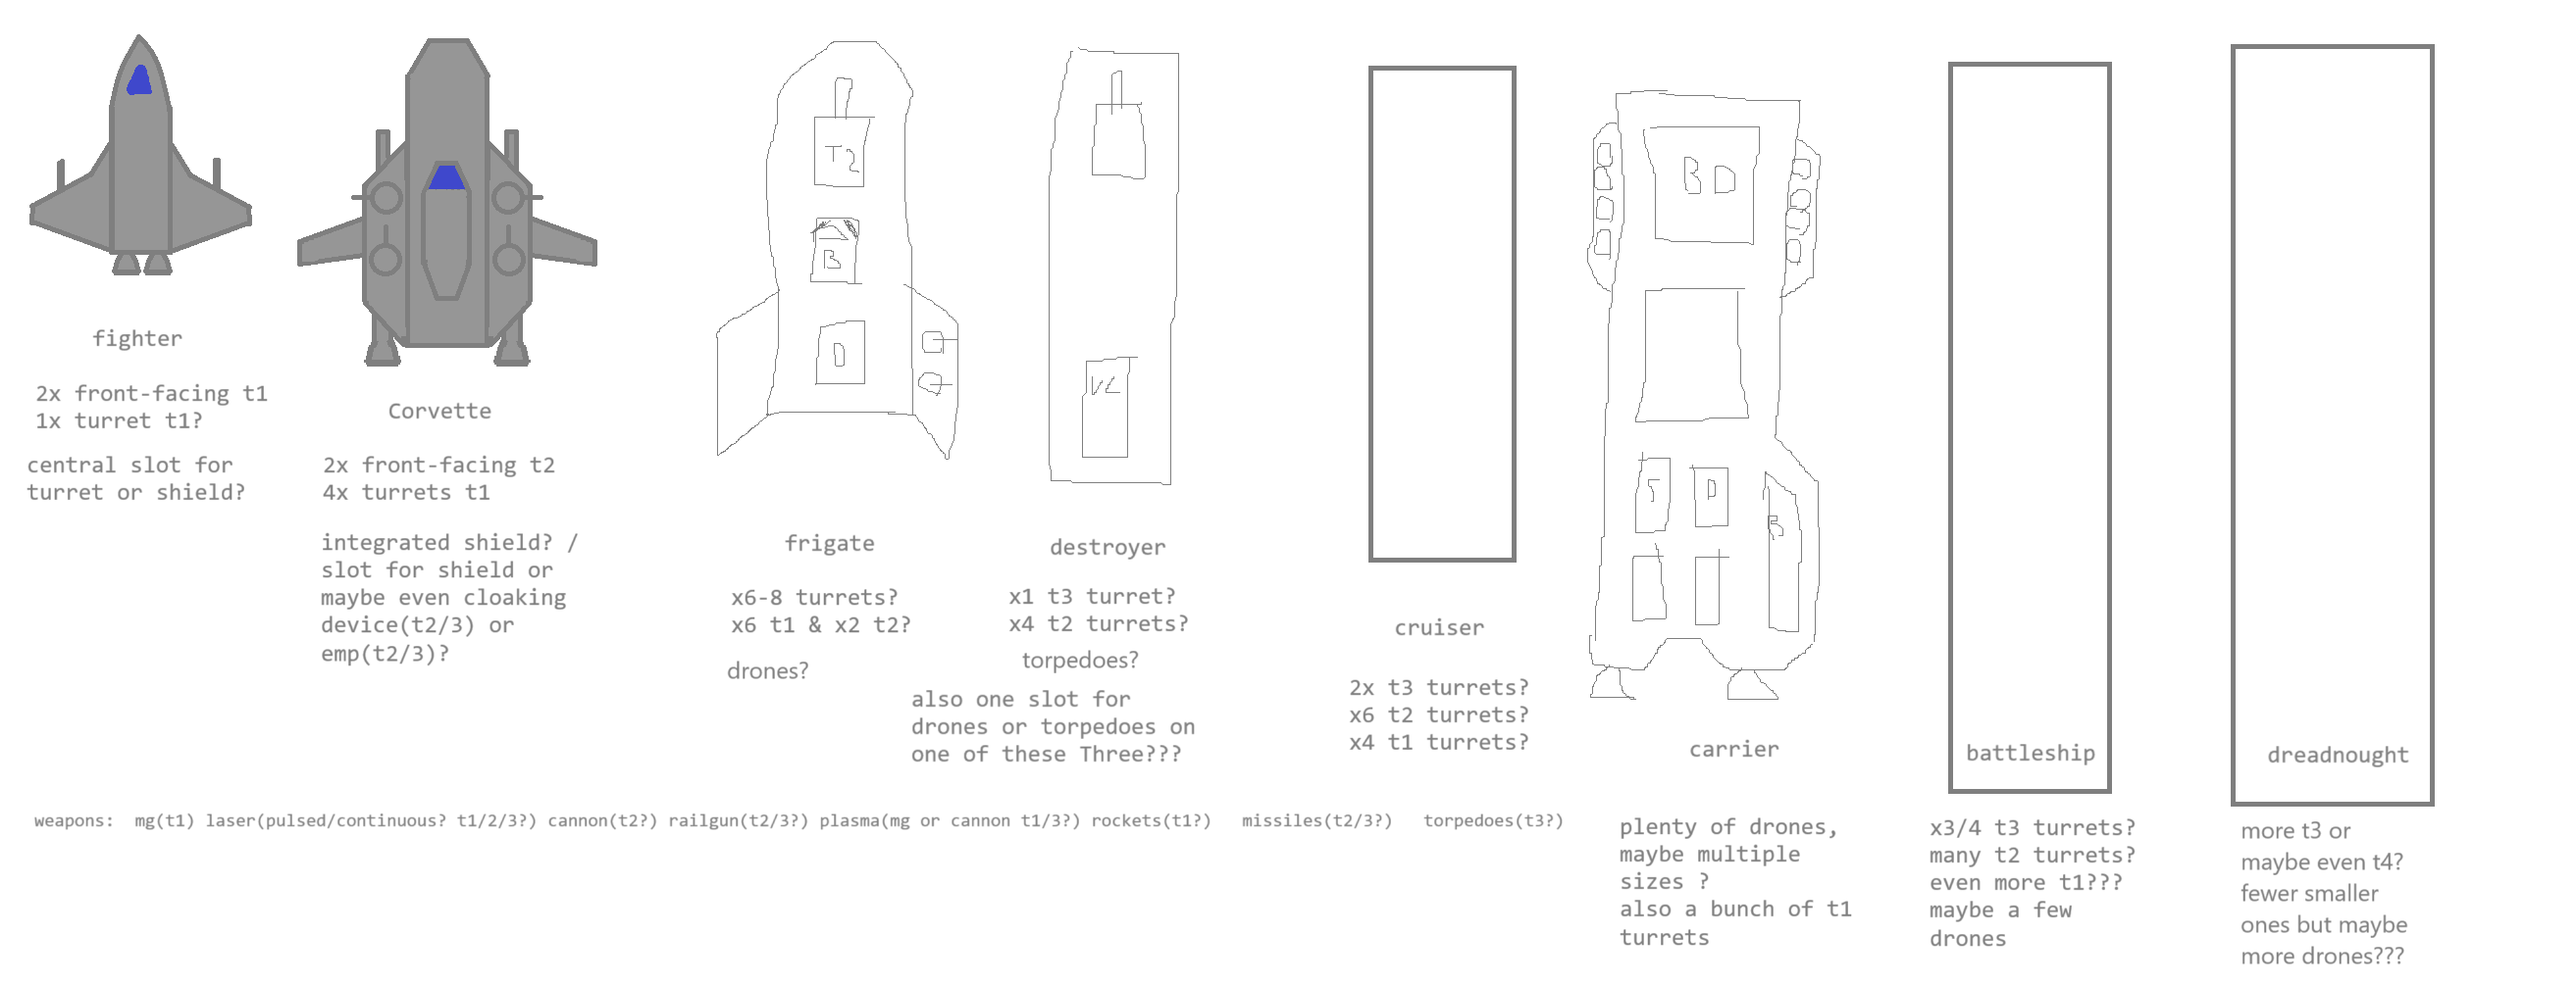
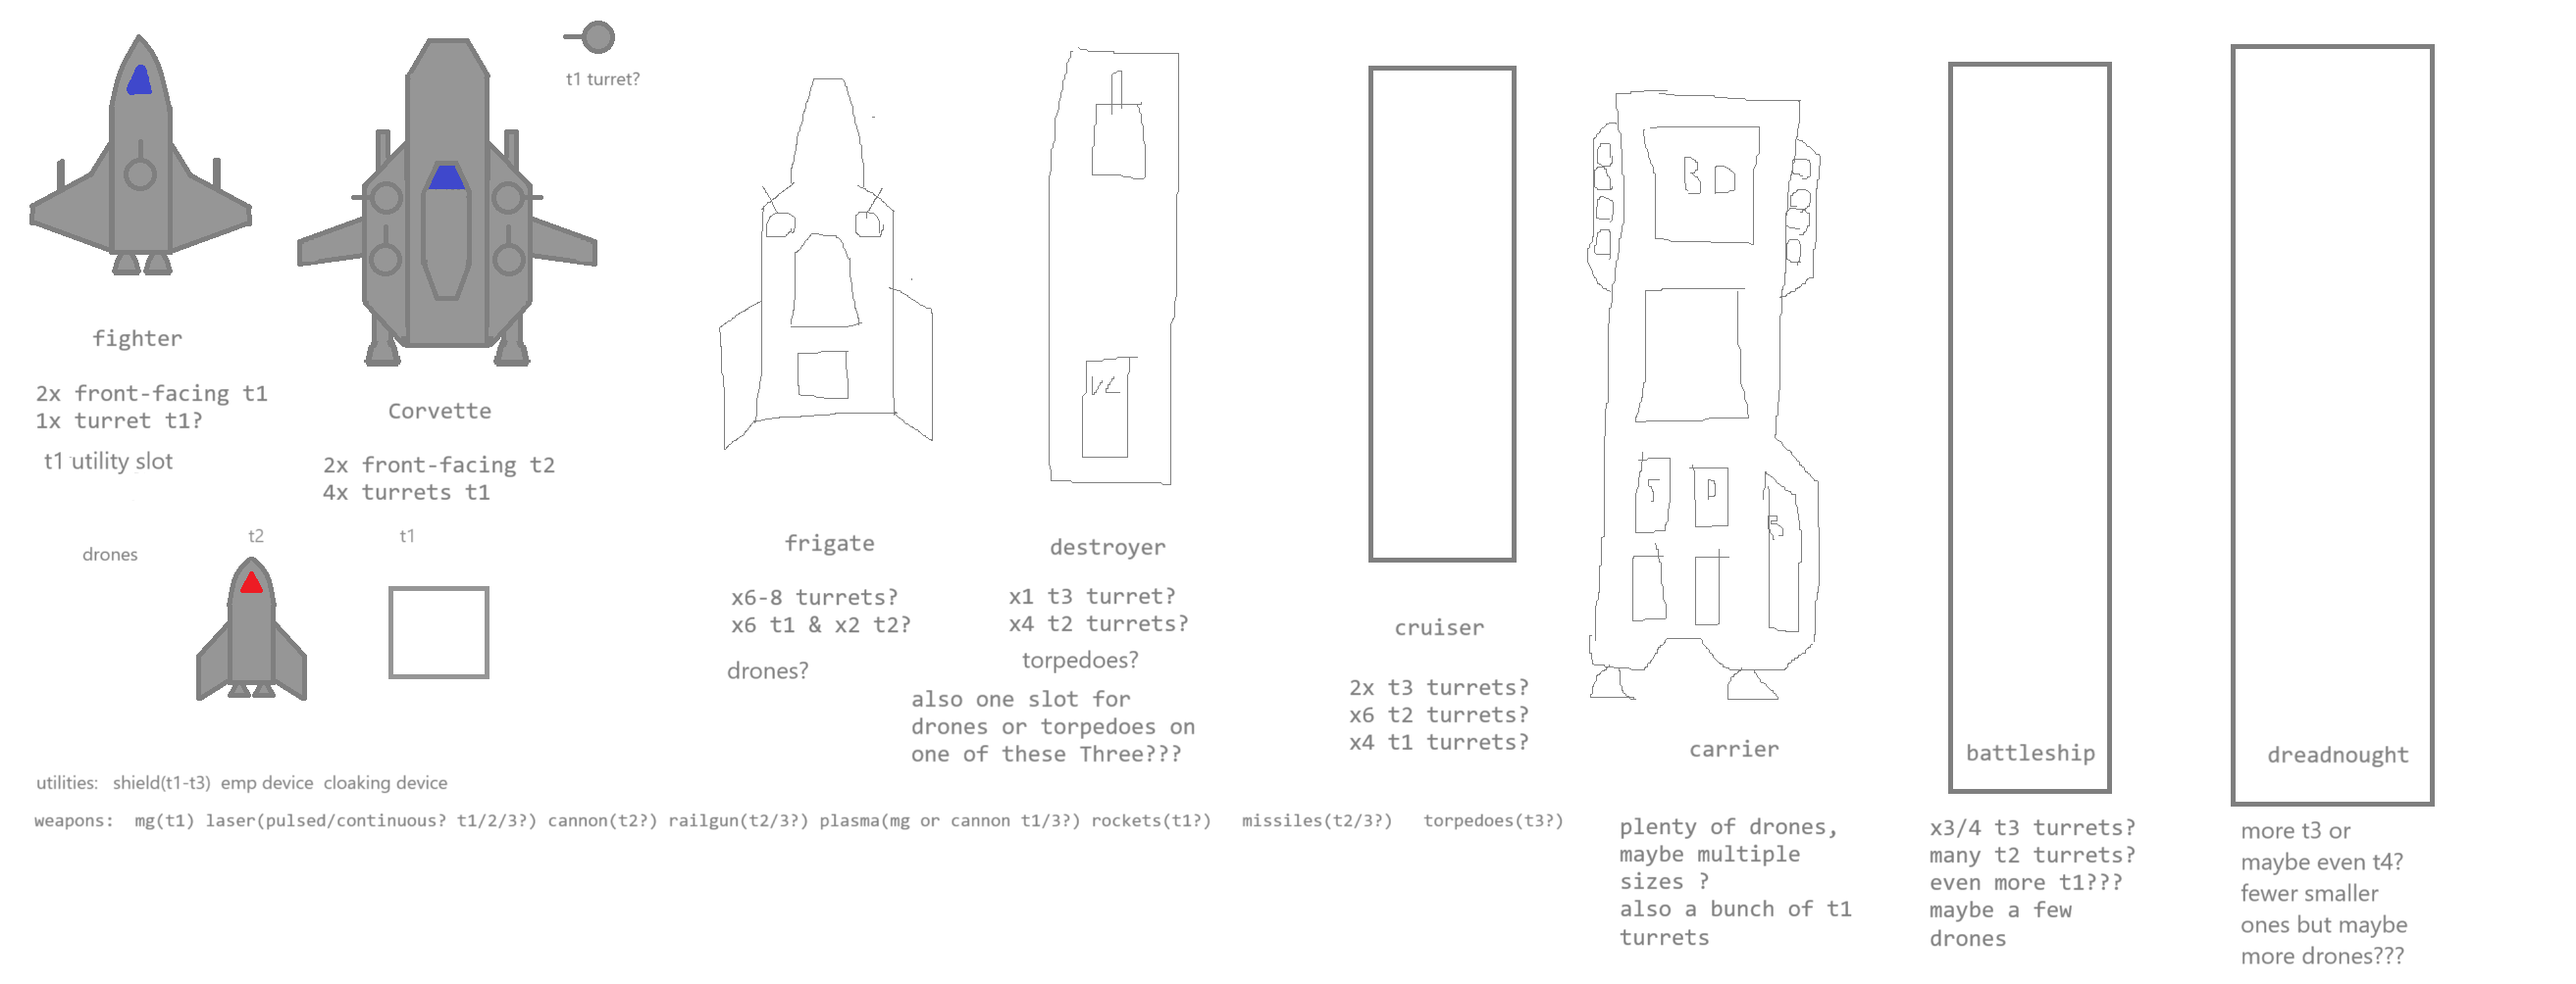
added camera deadzone, started inventory, started asteroid generation, added saving and loading funcs, improved world border colission

diff --git a/fourth gem/fourth.js b/fourth gem/fourth.js
@@ -4,7 +4,7 @@ var totW = can.width
 var totH = can.height
 var worldWidth = can.width * 100
 var worldHeight = can.height * 100
-var camera = {x:0,y:0,width:totW,height:totH}
+var camera = {x:0,y:0,width:totW,height:totH,deadzoneWidth:350,deadzoneHeight:225}
 var background = 'rgb(59, 168, 240)'
 var foreground = 'rgb(13, 84, 238)'
 var shipStroke = 'rgb(100,100,100)'
@@ -21,17 +21,19 @@ var states = {menu:0,main:1,paused:2,inventory:3}
 var gameState = states.menu
 var interval
 var canPause = true
-//skillpoint boosts on level-up???
+//inventory
+var canOpenInv = true
 var skillPoints = 0
 var dmgLvl = 0,frtLvl = 0 //???
 var accLvl = 0,crtLvl = 0 //???
 var hltLvl = 0 //???
 //arrays
 var enemies = []
+var asteroidFields = []
 var asteroids = []
 var turrets = []
 var projectiles = []
-var pickups = []//???
+var pickups = []
 var xpReqs = [25,50,75,100,125,150,175,200,225,250,275,300,325,350,375,400,425,450,475,500]
 var spAmounts = [2,4,6,8,10,12,14,16,18,20,22,24,26,28,30,32,34,36,38,40,42,44,46,48,50]
 //character functionality
@@ -208,6 +210,7 @@ can.addEventListener('mousemove', function(event) {
 document.addEventListener('keydown', function(event) {
     keysPressed = (keysPressed || []);
     keysPressed[event.key] = true; //console.log(keysPressed)
+    if (event.key == 'Tab') {event.preventDefault()}
     if (event.key == 'Escape' && gameState == states.paused) {
         console.log('resumed'); gameState = states.main
         ctx.textAlign = 'left'; can.style.cursor = 'none'
@@ -243,7 +246,7 @@ function buttonHovered(x,y,width,height) {
     return hovered;
 }
 
-window.onload = function load() {
+window.onload = function() {
     ctx.fillStyle = background
     ctx.fillRect(0,0,totW,totH)
     ctx.fillStyle = foreground
@@ -261,6 +264,64 @@ window.onload = function load() {
     setTimeout(function() {ctx.fillText('Loading........',100,totH/2)},1350)
     setTimeout(function() {ctx.fillText('Loading.........',100,totH/2)},1400)
     setTimeout(mainMenu,2000)
+}
+
+function save() {
+    ctx.fillStyle = background; ctx.fillRect(0,0,totW,totH);
+    ctx.fillStyle = foreground ; ctx.font = '50px consolas'; 
+    ctx.textAlign = 'center'; ctx.fillText('Saving...',totW/2,200);
+    setTimeout(mainMenu,1000)
+}
+
+function load() {
+    ctx.fillStyle = background; ctx.fillRect(0,0,totW,totH);
+    ctx.fillStyle = foreground ; ctx.font = '50px consolas'; 
+    ctx.fillText('Loading...',totW/2,200); gameState = states.main
+    ctx.textAlign = 'left'; interval = setInterval(mainLoop,20)
+}
+
+function generateWorld() {
+    console.log('generation stuff');
+    gameState = states.main; can.style.cursor = 'none'
+    ctx.fillStyle = background; ctx.fillRect(0,0,totW,totH);
+    ctx.fillStyle = foreground ; ctx.font = '50px consolas'; 
+    ctx.fillText('Generating world...',totW/2,200);
+    ctx.textAlign = 'left'; 
+    
+    var numberOfAsteroidfields = Math.ceil(Math.random() * 3 + 3)
+    for (var aField = 0; aField < numberOfAsteroidfields; aField++) {
+        var width = Math.random() * (2100-700) + 700;
+        var height = Math.random() * (1350-450) + 450;
+        var x = Math.random() * (worldWidth - (-camera.x + width + 50)) + -camera.x + width + 50;
+        var y = Math.random() * (worldHeight - (-camera.y + height + 50)) + -camera.y + height + 50;
+        var numberOfAsteroids = Math.floor((width - 700) / 2100 * (200 - 50) + 50);
+        asteroidFields.push({width:width,height:height,x:x,y:y})
+
+        for (var ass = 0; ass < numberOfAsteroids; ass++) {
+            var sides = Math.floor(Math.random() * 10 + 5);
+            var asteroid = [];
+            var radius = Math.random() * 15 + 10;
+            var astX = Math.random() * (x+width) + x
+            var astY = Math.random() * (y+height) + y
+            var xSpeed = Math.random() * 2 - 1;
+            var ySpeed = Math.random() * 2 - 1;
+            var rotation = Math.random() * 4 -2;
+            var health = Math.floor((radius - 10) / 15 * (8 - 3) + 3)
+
+            for (var s = 0; s < sides; s++) {
+                var angle = (Math.PI * 2 / sides) * s;
+                var pointX = astX + Math.cos(angle) * (radius + Math.random() * 10 - 5);
+                var pointY = astY + Math.sin(angle) * (radius + Math.random() * 10 - 5);
+                asteroid.push({ x: pointX, y: pointY });
+            }
+        
+            asteroid.push({xPos:astX, yPos:astY, dx:xSpeed, dy:ySpeed, rot:rotation, angle:0, radius:radius, hp:health, score:health})
+
+            asteroids.push(asteroid)
+        }
+        console.log(asteroids)
+    }
+    interval = setInterval(mainLoop,20)
 }
 
 function mainMenu() {
@@ -300,7 +361,7 @@ function checkClick() {
         }
         else if (buttonClicked(totW/2-130,270,260,50)) {
             console.log('quitting'); gameState = states.menu;
-            canPause = true; mainMenu()
+            canPause = true; can.style.cursor = 'default'; save()
         }
         
     }
@@ -412,13 +473,6 @@ class Projectile {
     }
 }
 
-function generateWorld() {
-    console.log('generation stuff');
-    gameState = states.main; can.style.cursor = 'none'
-    ctx.textAlign = 'left'; interval = setInterval(mainLoop,20)
-}
-
-
 function mainLoop() {
     ctx.fillStyle = 'rgb(66,66,66)'; ctx.fillRect(0,0,totW,totH)
     ctx.beginPath(); ctx.strokeStyle = 'rgb(76, 76, 76)';       
@@ -434,30 +488,30 @@ function mainLoop() {
     ctx.stroke(); ctx.strokeStyle = 'red';
     ctx.strokeRect(-camera.x+60,-camera.y+60,worldWidth-120,worldHeight-120)
 
-    if (keysPressed && keysPressed['s']) {maxShield = 42; shield += 0.2}
-    if (keysPressed && keysPressed['h'] && health < maxHealth) {health -= 0.5}
-    if (keysPressed && keysPressed['c']) {credits += 2}
-    if (keysPressed && keysPressed['x']) {xp += 0.2}
-
     if (keysPressed && keysPressed['f']) {spriteSelection = 1}
     else if (keysPressed && keysPressed['c']) {spriteSelection = 2}
     
+    if (keysPressed && keysPressed['Tab'] && canOpenInv == true) {
+        canOpenInv = false; setTimeout(() => {canOpenInv = true},1000)
+        if (gameState != states.inventory) {
+            gameState = states.inventory; console.log('inventory open')
+        }
+        else {
+            gameState = states.main; console.log('inventory closed')
+        }
+    }
+
     //levelling up
     if (xp >= xpRequired) { 
-        xp -= xpRequired; skillPoints += spAmounts[level];  
-        ctx.fillStyle = foreground; ctx.font = '30px consolas'; ctx.fillText('Level up! '+spAmounts[level]+' skillpoints received',250,100)
+        xp -= xpRequired; skillPoints += spAmounts[level]; ctx.fillStyle = foreground;
+        ctx.font = '30px consolas'; ctx.fillText('Level up! '+spAmounts[level]+' skillpoints received',250,100)
         level++; xpRequired = xpReqs[level];
     }
 
-    // Camera follows player
-    camera.x = Math.max(0, Math.min(playerX - camera.width / 2, worldWidth - camera.width));
-    camera.y = Math.max(0, Math.min(playerY - camera.height / 2, worldHeight - camera.height));
-    console.log(playerX-camera.x+','+playerY-camera.y)
-    
     //turning
-    if (keysPressed && (keysPressed['a'] || keysPressed['ArrowLeft'])) {
+    if (keysPressed && (keysPressed['a'] || keysPressed['ArrowLeft']) && gameState != states.inventory) {
         playerAngle -= playerTurnSpeed;
-        console.log(playerAngle)
+        //console.log(playerAngle)
         if (playerSprite == fighter) {
             var rotated1 = rotatePoint(playerX-camera.x+10,playerY-camera.y-20,playerX-camera.x,playerY-camera.y,playerAngle)
             var rotated2 = rotatePoint(playerX-camera.x+20,playerY-camera.y-20,playerX-camera.x,playerY-camera.y,playerAngle)
@@ -468,9 +522,9 @@ function mainLoop() {
             projectiles.push(new Projectile(2,2,rotated3.x,rotated3.y,rotated4.x,rotated4.y,'particleS',3,5,0,0,0,0))
         }
     }
-    else if (keysPressed && (keysPressed['d'] || keysPressed['ArrowRight'])) {
+    else if (keysPressed && (keysPressed['d'] || keysPressed['ArrowRight']) && gameState != states.inventory) {
         playerAngle += playerTurnSpeed
-        console.log(playerAngle)
+        //console.log(playerAngle)
         if (playerSprite == fighter) {
             var rotated1 = rotatePoint(playerX-camera.x-10,playerY-camera.y-20,playerX-camera.x,playerY-camera.y,playerAngle)
             var rotated2 = rotatePoint(playerX-camera.x-20,playerY-camera.y-20,playerX-camera.x,playerY-camera.y,playerAngle)
@@ -483,7 +537,7 @@ function mainLoop() {
     }
 
     //strafing
-    if (keysPressed && (keysPressed['q'])) {
+    if (keysPressed && (keysPressed['q']) && gameState != states.inventory) {
         playerSpeed = 0.025
         inputVector = [playerSpeed * Math.cos((playerAngle+180) * Math.PI / 180),playerSpeed * Math.sin((playerAngle+180) * Math.PI / 180)]
         movementVector[0] += inputVector[0]
@@ -498,7 +552,7 @@ function mainLoop() {
             projectiles.push(new Projectile(2,2,rotated3.x,rotated3.y,rotated4.x,rotated4.y,'particleS',3,5,0,0,0,0))
         }
     }
-    else if (keysPressed && (keysPressed['e'])) {
+    else if (keysPressed && (keysPressed['e']) && gameState != states.inventory) {
         playerSpeed = 0.025
         inputVector = [playerSpeed * Math.cos((playerAngle) * Math.PI / 180),playerSpeed * Math.sin((playerAngle) * Math.PI / 180)]
         movementVector[0] += inputVector[0]
@@ -515,7 +569,7 @@ function mainLoop() {
     }
 
     //go forwards / backwards
-    if (keysPressed && (keysPressed['w'] || keysPressed['ArrowUp'])) {
+    if (keysPressed && (keysPressed['w'] || keysPressed['ArrowUp']) && gameState != states.inventory) {
         playerSpeed = 0.05
         inputVector = [playerSpeed * Math.cos((playerAngle-90) * Math.PI / 180),playerSpeed * Math.sin((playerAngle-90) * Math.PI / 180)]
         movementVector[0] += inputVector[0]
@@ -530,7 +584,7 @@ function mainLoop() {
             projectiles.push(new Projectile(3,3,rotated3.x,rotated3.y,rotated4.x,rotated4.y,'particleL',3,5,0,0,0,0))
         }
     }
-    else if (keysPressed && (keysPressed['s'] || keysPressed['ArrowDown'])) {
+    else if (keysPressed && (keysPressed['s'] || keysPressed['ArrowDown']) && gameState != states.inventory) {
         playerSpeed = 0.025
         inputVector = [playerSpeed * Math.cos((playerAngle+90) * Math.PI / 180),playerSpeed * Math.sin((playerAngle+90) * Math.PI / 180)]
         movementVector[0] += inputVector[0]
@@ -546,7 +600,7 @@ function mainLoop() {
         }
     }
     
-    if (keysPressed && keysPressed['r']) {
+    if (keysPressed && keysPressed['r'] && gameState != states.inventory) {
         if (movementVector[0] > 0) {movementVector[0] -= 0.05}
         else if (movementVector[0] < 0) {movementVector[0] += 0.05}
         
@@ -554,21 +608,34 @@ function mainLoop() {
         else if (movementVector[1] < 0) {movementVector[1] += 0.05}
     }
 
+    // Camera follows player
+    if (playerX < camera.x + camera.deadzoneWidth / 2) {
+        camera.x = Math.max(0, playerX - camera.deadzoneWidth / 2);
+    } 
+    else if (playerX > camera.x + camera.width - camera.deadzoneWidth / 2) {
+        camera.x = Math.min(worldWidth - camera.width, playerX - camera.width + camera.deadzoneWidth / 2);
+    }
+    
+    if (playerY < camera.y + camera.deadzoneHeight / 2) {
+        camera.y = Math.max(0, playerY - camera.deadzoneHeight / 2);
+    } 
+    else if (playerY > camera.y + camera.height - camera.deadzoneHeight / 2) {
+        camera.y = Math.min(worldHeight - camera.height, playerY - camera.height + camera.deadzoneHeight / 2);
+    }
+    
     //move player
     if (playerX > -camera.x + 60 && playerX < worldWidth - 60)
     {playerX += movementVector[0]}
     else {
-        movementVector[0] = 0
-        if (playerX < worldWidth/2) {playerX += 100}
-        else {playerX -= 100}
+        if (playerX < worldWidth/2) {playerX = -camera.x + 100; movementVector[0] = 5}
+        else {playerX = worldWidth - 100; movementVector[0] = -5}
     }
 
     if (playerY > -camera.y + 60 && playerY < worldHeight - 60)
     {playerY += movementVector[1]}
     else {
-        movementVector[1] = 0
-        if (playerY < worldHeight/2) {playerY += 75}
-        else {playerY -= 75}
+        if (playerY < worldHeight/2) {playerY = -camera.y + 100; movementVector[1] = 5}
+        else {playerY = worldHeight - 100; movementVector[1] = -5}
     }
 
     //draw player
@@ -595,6 +662,7 @@ function mainLoop() {
     ctx.restore();
     ctx.fillStyle = 'red'; ctx.fillRect(playerX-camera.x-1,playerY-camera.y-1,2,2)
     ctx.fillStyle = 'green';ctx.fillRect(camera.width/2-1,camera.height/2-1,2,2)
+    
     projectiles.forEach(pro => {pro.update()})
 
     //xp bar
@@ -645,13 +713,25 @@ function mainLoop() {
         }
     }
     //minimap
-    ctx.lineWidth = 3; ctx.fillStyle = 'rgba(59, 168, 240, 0.9)'; ctx.fillRect(totW-160,10,150,100); 
-    ctx.strokeRect(totW-160,10,150,100); ctx.save(); ctx.translate(totW-160+playerX/466.66,10+playerY/466.66);
+    ctx.lineWidth = 2; ctx.fillStyle = 'rgba(59, 168, 240, 0.9)'; ctx.fillRect(totW-150,10,140,90); 
+    ctx.strokeRect(totW-150,10,140,90); ctx.save(); ctx.translate(totW-150+playerX/500,10+playerY/500);
     ctx.rotate(playerAngle * Math.PI / 180); ctx.beginPath(); ctx.fillStyle = 'green';
-    ctx.moveTo(-2.5,2.5); ctx.lineTo(2.5,2.5); ctx.lineTo(0,-5); ctx.fill();
-    ctx.translate(-(totW-160+playerX/466.66),-(10+playerY/466.66));
-    ctx.restore(); ctx.fillStyle = foreground; ctx.font = '10px consolas'
-    ctx.fillText('X:'+Math.round(playerX*10)/10+' Y:'+Math.round(playerY*10)/10,545,105)
+    ctx.moveTo(-2,2); ctx.lineTo(2,2); ctx.lineTo(0,-4); ctx.fill();
+    ctx.translate(-(totW-150+playerX/500),-(10+playerY/500)); ctx.restore(); 
+    ctx.fillStyle = 'gray'
+    asteroids.forEach(ass => {
+        ctx.fillRect(totW-150+ass[ass.length-1].xPos/500,10+ass[ass.length-1].yPos/500,2,2)
+    })
+    
+    ctx.fillStyle = foreground; ctx.font = '10px consolas';
+    ctx.fillText('X:'+Math.round(playerX*10)/10+' Y:'+Math.round(playerY*10)/10,552.5,97.5)
+
+    //ctx.strokeRect(camera.deadzoneWidth / 2,camera.deadzoneHeight / 2,camera.width - camera.deadzoneWidth,camera.height - camera.deadzoneHeight)
+
+    if (gameState == states.inventory) {
+        ctx.fillStyle = 'rgba(59, 168, 240, 0.9)'; ctx.fillRect(140,60,420,330);
+        ctx.lineWidth = 4; ctx.strokeRect(140,60,420,330);
+    }
 
     //cursor
     ctx.strokeStyle = foreground; ctx.lineWidth = 2; ctx.beginPath();

diff --git a/test.html b/test.html
@@ -34,8 +34,8 @@
             y: 0,
             width: canvas.width,
             height: canvas.height,
-            deadzoneWidth: 500,
-            deadzoneHeight: 400
+            deadzoneWidth: 400,
+            deadzoneHeight: 250
         };
 
         function update() {
@@ -45,22 +45,21 @@
             if (keys['a'] && player.x > -camera.x + player.width/2) {player.x -= player.speed;}
             if (keys['d'] && player.x < world.width - player.width/2) {player.x += player.speed;}
 
-            // Camera follows player
-            //camera.x = Math.max(0, Math.min(player.x - camera.width / 2, world.width - camera.width));
-            //camera.x = Math.max(0, Math.min(player.x - camera.width / 2 + camera.deadzoneWidth / 2, world.width - camera.width));
-            //camera.y = Math.max(0, Math.min(player.y - camera.height / 2, world.height - camera.height));
-            //camera.y = Math.max(0, Math.min(player.y - camera.height / 2 + camera.deadzoneHeight / 2, world.height - camera.height));
+            if (keys['b']) {camera.deadzoneWidth += 0.5; camera.deadzoneHeight += 0.5; console.log('deadzone:'+camera.deadzoneWidth+','+camera.deadzoneHeight)}
+            else if (keys['v']) {camera.deadzoneWidth -= 0.5; camera.deadzoneHeight -= 0.5; console.log('deadzone:'+camera.deadzoneWidth+','+camera.deadzoneHeight)}
             
             // Adjust camera position if player is outside the deadzone
             if (player.x < camera.x + camera.deadzoneWidth / 2) {
                 camera.x = Math.max(0, player.x - camera.deadzoneWidth / 2);
-            } else if (player.x > camera.x + camera.width - camera.deadzoneWidth / 2) {
+            } 
+            else if (player.x > camera.x + camera.width - camera.deadzoneWidth / 2) {
                 camera.x = Math.min(world.width - camera.width, player.x - camera.width + camera.deadzoneWidth / 2);
             }
 
             if (player.y < camera.y + camera.deadzoneHeight / 2) {
                 camera.y = Math.max(0, player.y - camera.deadzoneHeight / 2);
-            } else if (player.y > camera.y + camera.height - camera.deadzoneHeight / 2) {
+            } 
+            else if (player.y > camera.y + camera.height - camera.deadzoneHeight / 2) {
                 camera.y = Math.min(world.height - camera.height, player.y - camera.height + camera.deadzoneHeight / 2);
             }
         }
@@ -84,7 +83,7 @@
             ctx.stroke()
             // Draw player
             ctx.fillStyle = 'blue'; ctx.lineWidth = 3
-            ctx.strokeRect(canvas.width/2-camera.deadzoneWidth/2,canvas.height/2-camera.deadzoneHeight/2,camera.deadzoneWidth,camera.deadzoneHeight)
+            ctx.strokeRect(camera.deadzoneWidth / 2,camera.deadzoneHeight / 2,camera.width - camera.deadzoneWidth,camera.height - camera.deadzoneHeight)
             ctx.fillRect(player.x - camera.x - player.width / 2, player.y - camera.y - player.height / 2, player.width, player.height);
         }
 
